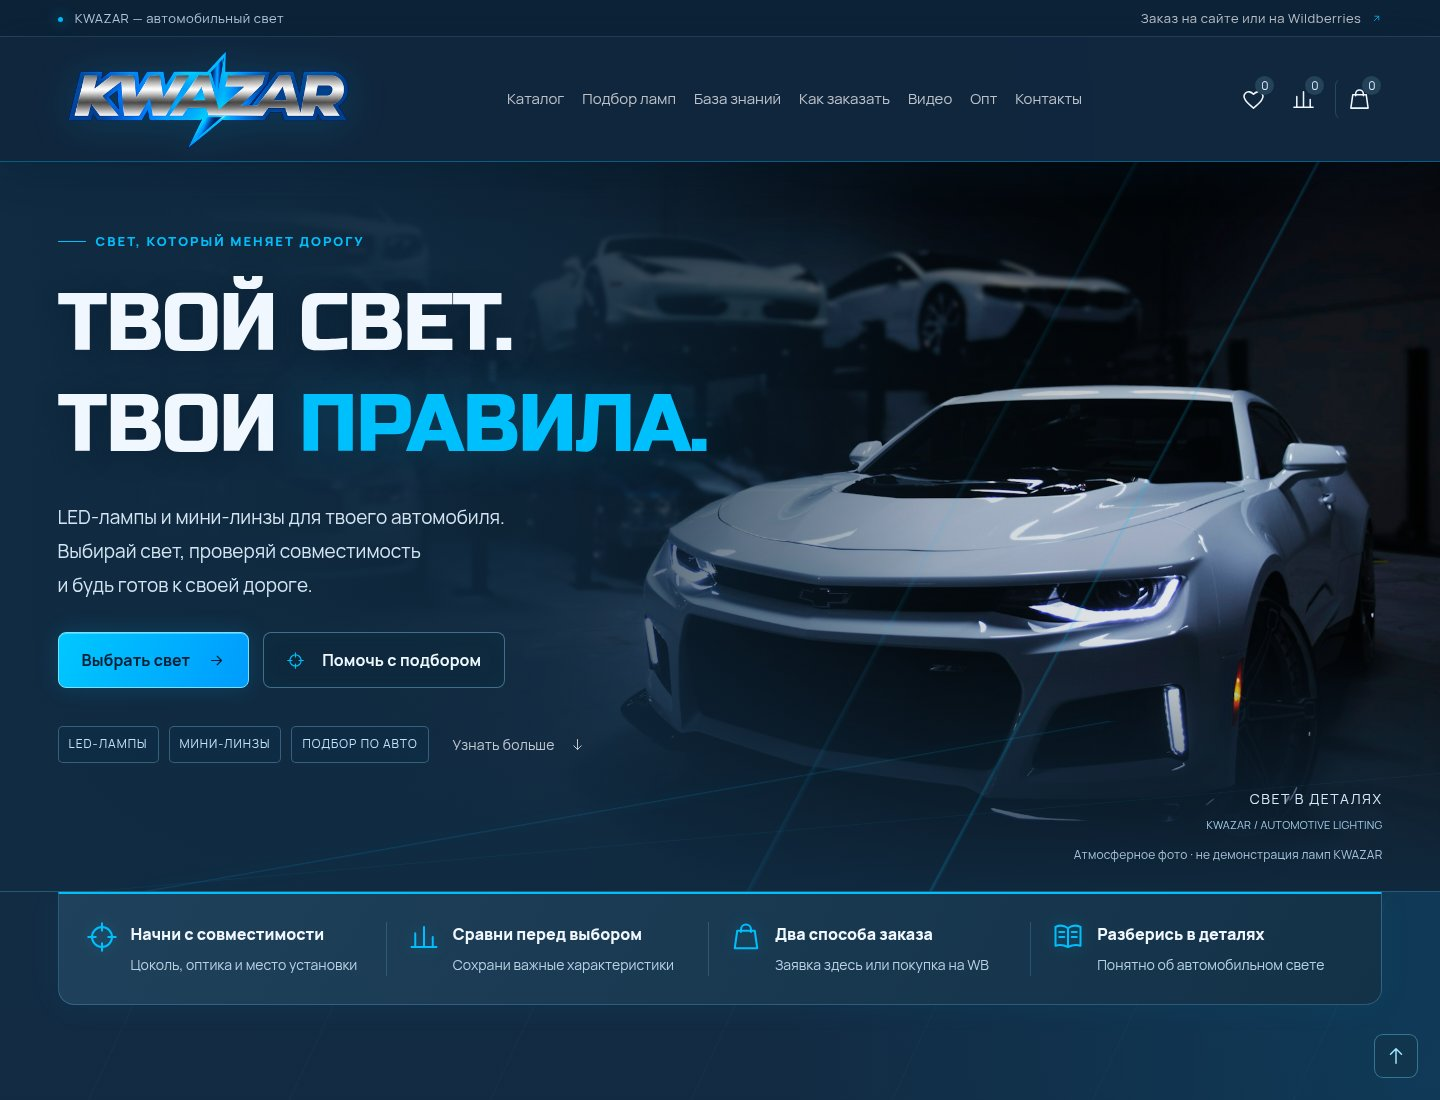
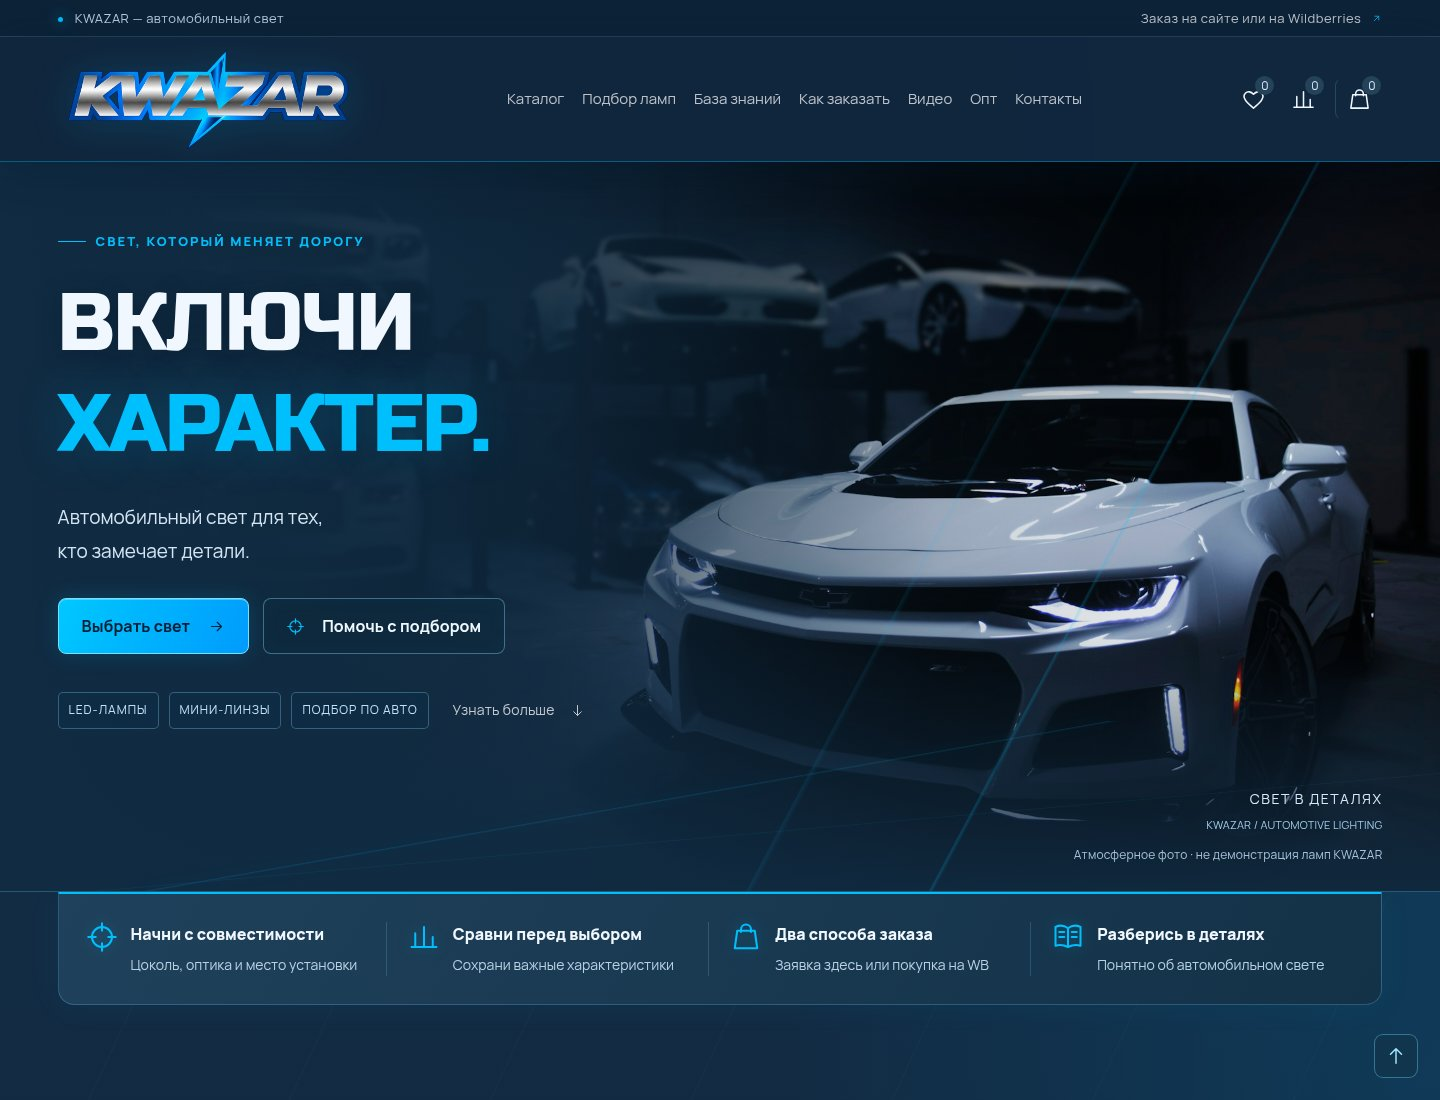
Use the selected Включи характер slogan

Changed region(s): [[0.0312, 0.2473, 0.5, 0.4327], [0.0312, 0.4636, 0.375, 0.68]]

diff --git a/index.html b/index.html
@@ -1,9 +1,9 @@
 <!doctype html>
-<html lang="ru"><head><meta charset="utf-8"><meta name="viewport" content="width=device-width,initial-scale=1"><meta name="theme-color" content="#10263d"><meta name="description" content="Автомобильный свет KWAZAR. Подбор ламп по цоколю, сравнение маркировок, полезные материалы. Заказ-заявка на сайте или покупка на Wildberries."><title>KWAZAR — твой свет. Твои правила.</title><link rel="icon" type="image/png" href="assets/kwazar-logo.png"><link rel="preload" href="assets/manrope.ttf" as="font" type="font/ttf" crossorigin><link rel="preload" href="assets/russo-one.ttf" as="font" type="font/ttf" crossorigin><link rel="stylesheet" href="styles.css?v=neon-20261107"><script defer src="app.js"></script></head><body>
+<html lang="ru"><head><meta charset="utf-8"><meta name="viewport" content="width=device-width,initial-scale=1"><meta name="theme-color" content="#10263d"><meta name="description" content="Автомобильный свет KWAZAR. Подбор ламп по цоколю, сравнение маркировок, полезные материалы. Заказ-заявка на сайте или покупка на Wildberries."><title>KWAZAR — включи характер.</title><link rel="icon" type="image/png" href="assets/kwazar-logo.png"><link rel="preload" href="assets/manrope.ttf" as="font" type="font/ttf" crossorigin><link rel="preload" href="assets/russo-one.ttf" as="font" type="font/ttf" crossorigin><link rel="stylesheet" href="styles.css?v=neon-20261107"><script defer src="app.js"></script></head><body>
 <a class="skip" href="#main">К содержимому</a>
 <div class="topline"><div class="wrap"><span><i class="status-dot"></i> KWAZAR — автомобильный свет</span><a href="#delivery">Заказ на сайте или на Wildberries <svg aria-hidden="true"><use href="#i-arrow"/></svg></a></div></div>
 <header class="header"><div class="wrap header-inner"><a class="brand" href="#" aria-label="KWAZAR — главная"><img class="brand-logo" src="assets/kwazar-logo.png" alt="KWAZAR" width="2172" height="724" fetchpriority="high"></a><nav id="main-nav" aria-label="Основное меню"><a href="#catalog">Каталог</a><a href="#finder">Подбор ламп</a><a href="#journal">База знаний</a><a href="#delivery">Как заказать</a><a href="#videos">Видео</a><a href="#wholesale">Опт</a><a href="#contacts">Контакты</a></nav><div class="header-actions"><button class="icon-button" id="favorites-open" aria-label="Избранное" title="Избранное"><svg><use href="#i-heart"/></svg><span data-count="favorites">0</span></button><button class="icon-button" id="compare-open" aria-label="Сравнить товары" title="Сравнение"><svg><use href="#i-compare"/></svg><span data-count="compare">0</span></button><button class="icon-button cart-toggle" id="cart-open" aria-label="Открыть заказ" title="Заказ"><svg><use href="#i-bag"/></svg><span data-count="cart">0</span></button><button class="icon-button mobile-menu" id="menu-open" aria-label="Открыть меню" aria-expanded="false" aria-controls="main-nav"><svg><use href="#i-menu"/></svg></button></div></div></header>
-<main id="main"><section class="hero"><div class="hero-photo" role="img" aria-label="Автомобиль с включёнными фарами в тёмном пространстве"></div><div class="hero-grid" aria-hidden="true"></div><div class="wrap hero-content"><p class="eyebrow"><span></span> СВЕТ, КОТОРЫЙ МЕНЯЕТ ДОРОГУ</p><h1>ТВОЙ СВЕТ.<br>ТВОИ <span>ПРАВИЛА.</span></h1><p class="hero-description">LED-лампы и мини-линзы для твоего автомобиля. <br>Выбирай свет, проверяй совместимость <br class="desktop">и будь готов к своей дороге.</p><div class="hero-buttons"><a class="button gold" href="#catalog">Выбрать свет <svg><use href="#i-arrow"/></svg></a><a class="button glass" href="#finder"><svg><use href="#i-crosshair"/></svg> Помочь с подбором</a></div><div class="hero-footer"><div class="hero-tags"><span>LED-ЛАМПЫ</span><span>МИНИ-ЛИНЗЫ</span><span>ПОДБОР ПО АВТО</span></div><a href="#journal">Узнать больше <svg><use href="#i-down"/></svg></a></div></div><div class="hero-label"><span>СВЕТ В ДЕТАЛЯХ<span class="hero-coordinate">KWAZAR / AUTOMOTIVE LIGHTING</span></span><span>Атмосферное фото · не демонстрация ламп KWAZAR</span></div></section>
+<main id="main"><section class="hero"><div class="hero-photo" role="img" aria-label="Автомобиль с включёнными фарами в тёмном пространстве"></div><div class="hero-grid" aria-hidden="true"></div><div class="wrap hero-content"><p class="eyebrow"><span></span> СВЕТ, КОТОРЫЙ МЕНЯЕТ ДОРОГУ</p><h1>ВКЛЮЧИ<br><span>ХАРАКТЕР.</span></h1><p class="hero-description">Автомобильный свет для тех, <br class="desktop">кто замечает детали.</p><div class="hero-buttons"><a class="button gold" href="#catalog">Выбрать свет <svg><use href="#i-arrow"/></svg></a><a class="button glass" href="#finder"><svg><use href="#i-crosshair"/></svg> Помочь с подбором</a></div><div class="hero-footer"><div class="hero-tags"><span>LED-ЛАМПЫ</span><span>МИНИ-ЛИНЗЫ</span><span>ПОДБОР ПО АВТО</span></div><a href="#journal">Узнать больше <svg><use href="#i-down"/></svg></a></div></div><div class="hero-label"><span>СВЕТ В ДЕТАЛЯХ<span class="hero-coordinate">KWAZAR / AUTOMOTIVE LIGHTING</span></span><span>Атмосферное фото · не демонстрация ламп KWAZAR</span></div></section>
 <section class="benefits wrap" aria-label="Возможности магазина"><article><svg><use href="#i-crosshair"/></svg><div><h2>Начни с совместимости</h2><p>Цоколь, оптика и место установки</p></div></article><article><svg><use href="#i-compare"/></svg><div><h2>Сравни перед выбором</h2><p>Сохрани важные характеристики</p></div></article><article><svg><use href="#i-bag"/></svg><div><h2>Два способа заказа</h2><p>Заявка здесь или покупка на WB</p></div></article><article><svg><use href="#i-book"/></svg><div><h2>Разберись в деталях</h2><p>Понятно об автомобильном свете</p></div></article></section>
 <section class="section wrap" id="catalog"><div class="section-heading"><div><p class="eyebrow">01 / КАТАЛОГ И ПОДБОР</p><h2>Свет под <span>твои задачи.</span></h2></div><a class="text-link" href="https://www.wildberries.ru/seller/3944663" target="_blank" rel="noopener noreferrer">Все товары на WB <svg><use href="#i-arrow"/></svg></a></div><div class="catalog-toolbar"><div class="tabs" role="tablist" aria-label="Категории каталога"><button role="tab" aria-selected="true" data-filter="all" id="tab-all" aria-controls="catalog-panel" tabindex="0">Все товары</button><button role="tab" aria-selected="false" data-filter="h" id="tab-h" aria-controls="catalog-panel" tabindex="-1">H-серия</button><button role="tab" aria-selected="false" data-filter="hb" id="tab-hb" aria-controls="catalog-panel" tabindex="-1">HB-серия</button><button role="tab" aria-selected="false" data-filter="d" id="tab-d" aria-controls="catalog-panel" tabindex="-1">D-серия</button><button role="tab" aria-selected="false" data-filter="favorites" id="tab-favorites" aria-controls="catalog-panel" tabindex="-1"><svg><use href="#i-heart"/></svg> Избранное</button></div><label class="search"><svg><use href="#i-search"/></svg><input id="search" type="search" placeholder="Найти цоколь, например H7" aria-label="Поиск по маркировке"></label></div><div class="catalog-options"><label>Тип товара<select id="product-type"><option value="all">Все типы</option><option value="led">LED-лампы</option><option value="mini">Мини-линзы</option></select></label><span id="catalog-summary" aria-hidden="true"></span><label>Сортировка<select id="sort"><option value="default">Как в каталоге</option><option value="name">По названию</option><option value="power-asc">Мощность по возрастанию</option><option value="power-desc">Мощность по убыванию</option></select></label></div><p class="catalog-notice"><i class="status-dot"></i> Товары из магазина KVAZARLAMP на WB <span>Фотографии и характеристики из выгрузки от 02.11.2026. Стоимость и наличие уточняются.</span></p><div id="catalog-panel" role="tabpanel" aria-labelledby="tab-all"><div class="product-grid" id="products"></div><div class="empty-state" id="empty-state" hidden><svg><use href="#i-search"/></svg><h3>Пока ничего нет</h3><p id="empty-message"></p><button class="button outline" id="reset-filters">Показать все цоколи</button></div></div><div class="load-more-wrap"><button class="button outline" id="load-more" hidden>Показать ещё</button></div><p id="catalog-status" class="sr-only" aria-live="polite"></p><div class="catalog-help"><svg><use href="#i-help"/></svg><p>Не знаешь, какая лампа нужна?<span>Начни с автомобиля — оставь данные для проверки.</span></p><a class="text-link" href="#finder">Подобрать свет <svg><use href="#i-arrow"/></svg></a></div></section>
 <section id="finder" class="finder-section"><div class="wrap finder-layout"><div><p class="eyebrow">02 / ПЕРСОНАЛЬНЫЙ ПОДБОР</p><h2>У каждой машины<br>свой <span>характер.</span></h2><p class="section-description">Укажи автомобиль и задачу. Сохраним данные в заказе-заявке, чтобы проверить цоколь и особенности установки перед покупкой.</p><div class="finder-hint"><svg><use href="#i-shield"/></svg><p>Подбор по модели требует проверки.<br><span>Год и комплектация влияют на тип оптики.</span></p></div></div><form id="finder-form" class="finder-card"><div class="card-heading"><svg><use href="#i-car"/></svg><span>Твой автомобиль</span><small>01 / 02</small></div><div class="form-grid"><label>Марка<input name="make" placeholder="Например, Toyota" maxlength="60" required autocomplete="off"></label><label>Модель<input name="model" placeholder="Например, Camry" maxlength="60" required autocomplete="off"></label><label>Год выпуска<input name="year" type="number" min="1950" max="2027" placeholder="2020" required></label><label>Нужен свет<select name="purpose"><option value="Ближний свет">Ближний свет</option><option>Дальний свет</option><option>Противотуманный свет</option><option>Не знаю — нужна помощь</option></select></label></div><label class="full-label">Цоколь, если знаешь<select name="socket"><option value="unknown">Не знаю — проверить по автомобилю</option>H1</option><option>H4</option><option>H7</option><option>H11</option><option>HB3</option><option>HB4</option><option>D1S</option><option>D2S</option><option>D3S</option><option>D4S</option></select></label><button class="button gold full" type="submit">Добавить подбор в заказ <svg><use href="#i-arrow"/></svg></button><p class="form-footnote">Это заявка на проверку, а не автоматическая гарантия совместимости.</p></form></div></section>
@@ -15,7 +15,7 @@
 <section class="section wrap" id="wholesale"><div class="wholesale-panel"><div><p class="eyebrow">ДЛЯ ПАРТНЁРОВ KWAZAR</p><h2>Опт</h2><p class="section-description">Раздел в разработке. По вопросам опта пишите в WhatsApp</p></div><a class="button gold" href="https://wa.me/79285999960" target="_blank" rel="noopener noreferrer">Написать в WhatsApp <svg><use href="#i-arrow"/></svg></a></div></section>
 <section class="section wrap" id="contacts"><div class="section-heading"><h2>Контакты</h2></div><div class="contact-links"><a href="https://wa.me/79285999960" target="_blank" rel="noopener noreferrer"><span>WHATSAPP</span><strong>+7 928 599-99-60</strong><svg><use href="#i-arrow"/></svg></a><a href="https://t.me/kwazar_led" target="_blank" rel="noopener noreferrer"><span>TELEGRAM</span><strong>@kwazar_led</strong><svg><use href="#i-arrow"/></svg></a><a href="mailto:361isa@mail.ru"><span>ПОЧТА</span><strong>361isa@mail.ru</strong><svg><use href="#i-arrow"/></svg></a></div></section>
 <section class="closing"><div class="wrap"><img class="brand-logo" src="assets/kwazar-logo.png" alt="KWAZAR" width="2172" height="724" loading="lazy"><p class="eyebrow">ДАЛЬШЕ — ТВОЯ ДОРОГА</p><h2>Начни со <em>света.</em></h2><a class="button gold" href="#finder">Подобрать для моего авто <svg><use href="#i-arrow"/></svg></a></div></section></main>
-<footer><div class="wrap footer-main"><div><a class="brand" href="#" aria-label="KWAZAR — главная"><img class="brand-logo" src="assets/kwazar-logo.png" alt="KWAZAR" width="2172" height="724" fetchpriority="high"></a><p>Твой свет. Твои правила.</p></div><div><h3>Выбрать</h3><a href="#catalog">Каталог товаров</a><a href="#finder">Подбор для автомобиля</a><button id="footer-favorites">Избранное</button></div><div><h3>Узнать</h3><a href="#journal">База знаний</a><a href="#faq">Вопросы и ответы</a><a href="#delivery">Оплата и доставка</a></div><div><h3>Магазин</h3><a href="mailto:361isa@mail.ru">361isa@mail.ru</a><a href="https://www.wildberries.ru/seller/3944663" target="_blank" rel="noopener noreferrer">KWAZAR на Wildberries</a><button data-article="privacy">Обработка данных заявки</button></div></div><div class="wrap footer-bottom"><span>© KWAZAR, 2026</span><span>Стоимость и наличие подтверждаются при согласовании заявки.</span><a href="admin.html">Кабинет владельца</a><a href="#">Наверх ↑</a></div></footer>
+<footer><div class="wrap footer-main"><div><a class="brand" href="#" aria-label="KWAZAR — главная"><img class="brand-logo" src="assets/kwazar-logo.png" alt="KWAZAR" width="2172" height="724" fetchpriority="high"></a><p>Включи характер.</p></div><div><h3>Выбрать</h3><a href="#catalog">Каталог товаров</a><a href="#finder">Подбор для автомобиля</a><button id="footer-favorites">Избранное</button></div><div><h3>Узнать</h3><a href="#journal">База знаний</a><a href="#faq">Вопросы и ответы</a><a href="#delivery">Оплата и доставка</a></div><div><h3>Магазин</h3><a href="mailto:361isa@mail.ru">361isa@mail.ru</a><a href="https://www.wildberries.ru/seller/3944663" target="_blank" rel="noopener noreferrer">KWAZAR на Wildberries</a><button data-article="privacy">Обработка данных заявки</button></div></div><div class="wrap footer-bottom"><span>© KWAZAR, 2026</span><span>Стоимость и наличие подтверждаются при согласовании заявки.</span><a href="admin.html">Кабинет владельца</a><a href="#">Наверх ↑</a></div></footer>
 <div class="compare-dock" id="compare-dock" hidden><span id="compare-dock-count"></span><button class="button gold small" id="dock-open">Сравнить <svg><use href="#i-compare"/></svg></button><button class="icon-button" id="compare-clear" aria-label="Очистить сравнение"><svg><use href="#i-close"/></svg></button></div><button class="back-top icon-button" id="back-top" aria-label="Наверх"><svg><use href="#i-up"/></svg></button><div id="toast" role="status" aria-live="polite"></div>
 <dialog id="detail-dialog" class="modal"><div class="dialog-top"><span class="mini-label">KWAZAR / ПОДРОБНЕЕ</span><button class="icon-button" data-close aria-label="Закрыть"><svg><use href="#i-close"/></svg></button></div><div id="detail-body"></div></dialog>
 <dialog id="compare-dialog" class="modal wide"><div class="dialog-top"><div><p class="eyebrow">СОПОСТАВЬ ХАРАКТЕРИСТИКИ</p><h2>Сравнение товаров</h2></div><button class="icon-button" data-close aria-label="Закрыть сравнение"><svg><use href="#i-close"/></svg></button></div><p class="dialog-note">Данные из выгрузки WB. Совместимость, актуальные цены и наличие подтверждаются отдельно.</p><div id="compare-body"></div></dialog>
